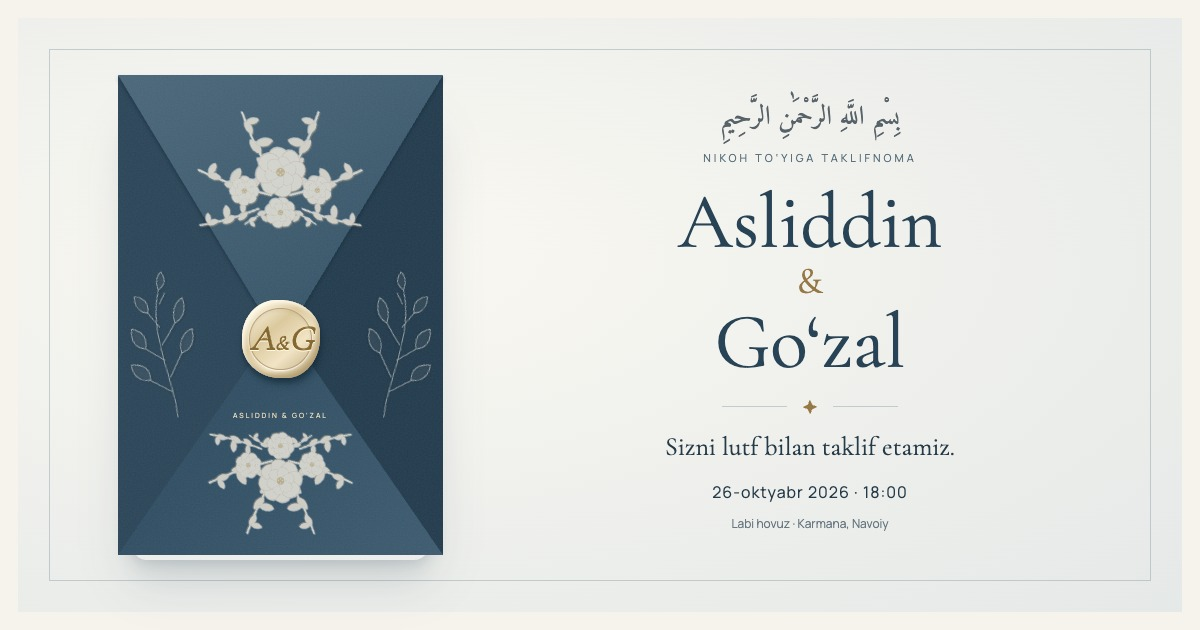
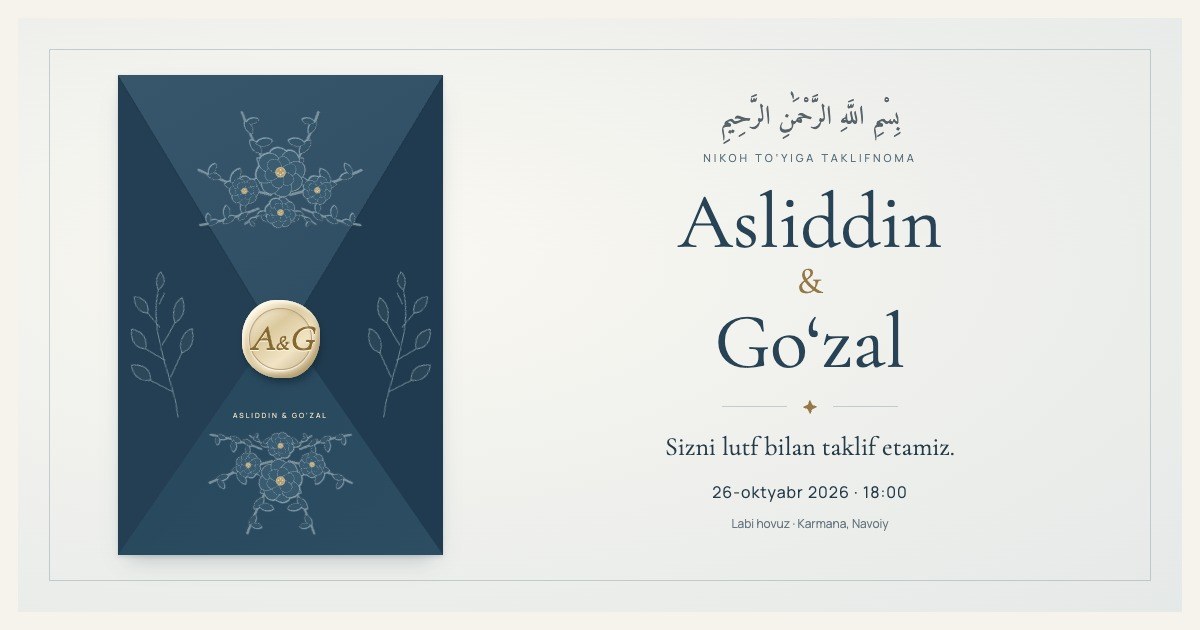
bvbv

diff --git a/static/invitation/event-theme.css b/static/invitation/event-theme.css
@@ -50,23 +50,25 @@ h1 { color: #294356; }
 .welcome-dialog.envelope-intro::backdrop { background: #e9ece8; }
 .envelope-heading .eyebrow, .envelope-hint,
 .envelope-controls .welcome-music { color: #5a707c; }
-.envelope-back { background: #1e3445; }
-.envelope-left { background-color: #2b4558; }
-.envelope-right { background-color: #223b4d; }
-.envelope-bottom { background-color: #304e63; }
-.envelope-flap-paper { background-color: #38566a; }
+.envelope-back { background: #203a4d; border-radius: 1px; box-shadow: none; }
+.envelope-side, .envelope-bottom, .envelope-flap-paper { background-image: none; }
+.envelope-left { background-color: #243f53; }
+.envelope-right { background-color: #203b4f; }
+.envelope-bottom { background-color: #29495f; }
+.envelope-flap-paper { background-color: #304f65; }
 .envelope-bottom::after {
-  background: linear-gradient(130deg, #102a3b30, transparent 55%, #adc7d21c);
+  background: linear-gradient(130deg, #102a3b12, transparent 55%, #adc7d208);
 }
 .envelope-flap-paper::after {
-  background: linear-gradient(150deg, #cedde520, transparent 50%, #10263730);
+  background: linear-gradient(150deg, #cedde50c, transparent 50%, #10263712);
 }
-.envelope-flap { filter: drop-shadow(0 3px 2px #10263570); }
-.envelope-shadow { box-shadow: 0 20px 44px #1b35452b, 0 5px 12px #1b354520; }
-.envelope-trigger:hover .envelope-shadow { box-shadow: 0 25px 55px #1b354535, 0 5px 15px #1b354528; }
-.envelope-sprig { color: #b8bdba; filter: drop-shadow(1px 1px 1px #10263570); }
+.envelope-flap { filter: drop-shadow(0 1px 1px #10263560); }
+/* Keep the shadow caster inside the actual paper silhouette. */
+.envelope-shadow { inset: 0; border-radius: 1px; box-shadow: 0 12px 24px -10px #102c3d45, 0 2px 4px #102c3d20; }
+.envelope-trigger:hover .envelope-shadow { box-shadow: 0 14px 28px -10px #102c3d50, 0 2px 4px #102c3d20; }
+.envelope-sprig { color: #8da5b1; filter: drop-shadow(0 1px .3px #10263570); }
 .envelope-flowers-top:not(.envelope-flower-light),
-.envelope-flowers-bottom:not(.envelope-flower-light) { opacity: .78; }
+.envelope-flowers-bottom:not(.envelope-flower-light) { opacity: 1; }
 .envelope-inscription { color: #e1d5b9; }
 .envelope-seal {
   background: linear-gradient(140deg, #fff9e9 8%, #dbc99e 38%, #f1e4c5 64%, #b29b6d);

diff --git a/templates/invitation/home.html b/templates/invitation/home.html
@@ -192,13 +192,13 @@
         <span class="envelope-bottom" aria-hidden="true"></span>
         <svg class="envelope-sprig envelope-sprig-left" aria-hidden="true"><use href="#sprig"/></svg>
         <svg class="envelope-sprig envelope-sprig-right" aria-hidden="true"><use href="#sprig"/></svg>
-        <img class="envelope-flowers-bottom" src="{% static 'invitation/images/envelope-florals.svg' %}" alt="" aria-hidden="true" width="320" height="210">
+        <img class="envelope-flowers-bottom" src="{% static 'invitation/images/envelope-florals-blue.svg' %}" alt="" aria-hidden="true" width="320" height="210">
         <img class="envelope-flowers-bottom envelope-flower-light" src="{% static 'invitation/images/envelope-florals.svg' %}" alt="" aria-hidden="true" width="320" height="210">
         <span class="envelope-inscription" aria-hidden="true">ASLIDDIN & GO‘ZAL</span>
         </span>
         <span class="envelope-flap" aria-hidden="true">
         <span class="envelope-flap-paper"></span>
-        <img class="envelope-flowers-top" src="{% static 'invitation/images/envelope-florals.svg' %}" alt="" width="320" height="210">
+        <img class="envelope-flowers-top" src="{% static 'invitation/images/envelope-florals-blue.svg' %}" alt="" width="320" height="210">
         <img class="envelope-flowers-top envelope-flower-light" src="{% static 'invitation/images/envelope-florals.svg' %}" alt="" width="320" height="210">
         <span class="envelope-seal" aria-hidden="true"><span class="seal-initials">A<em>&</em>G</span></span>
         </span>
